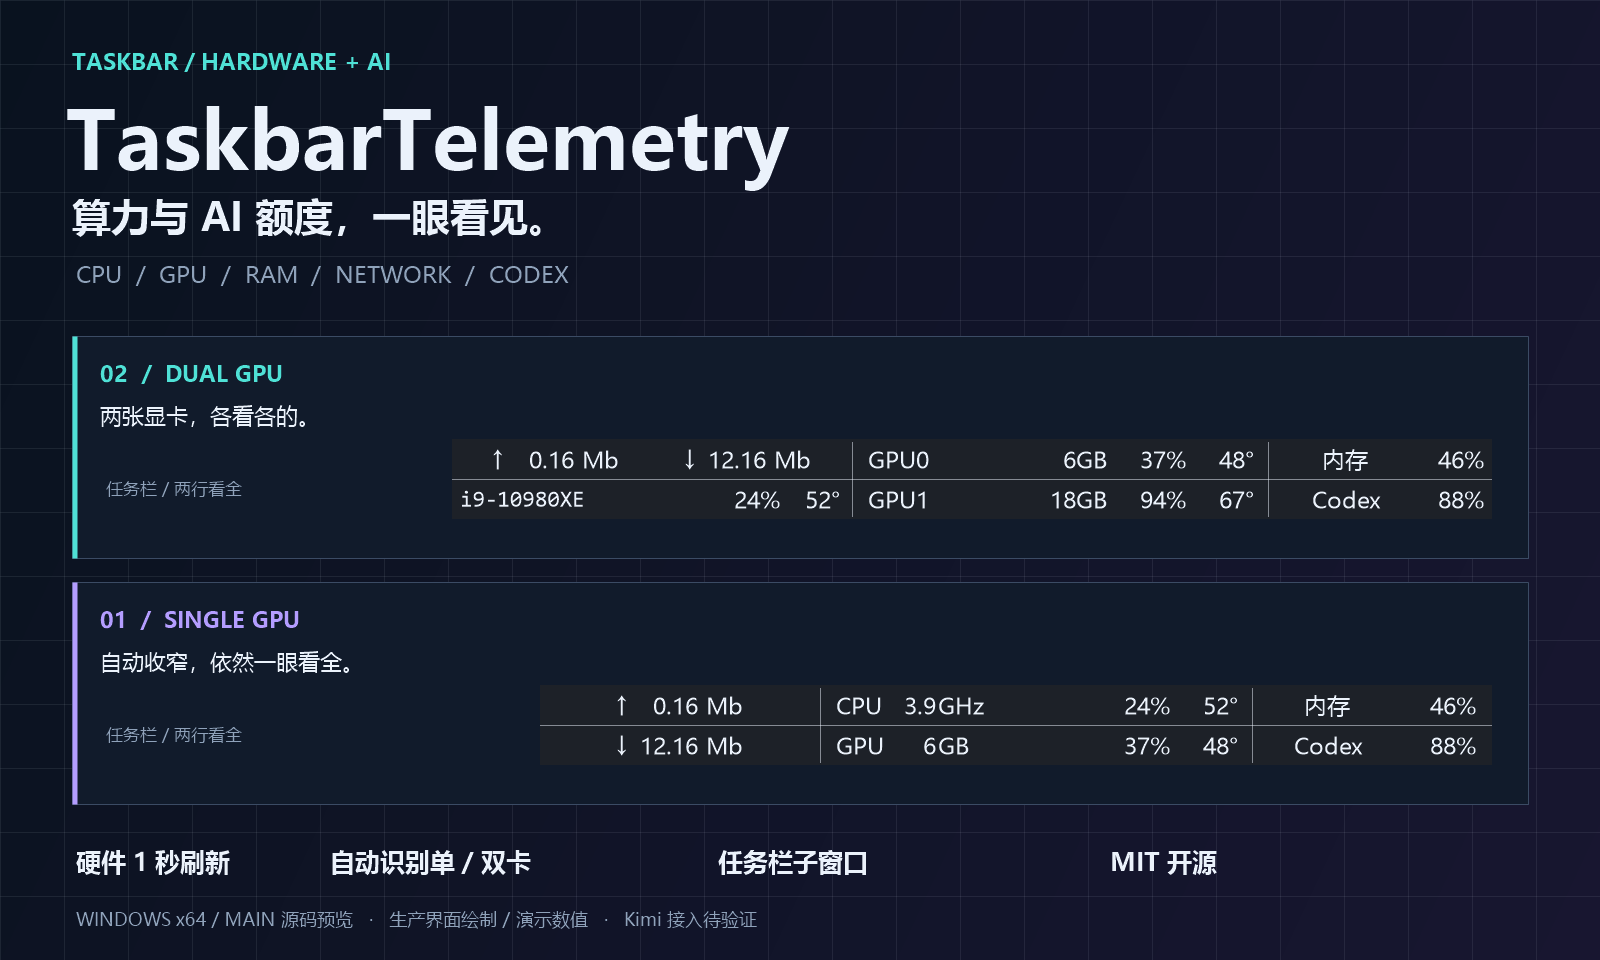
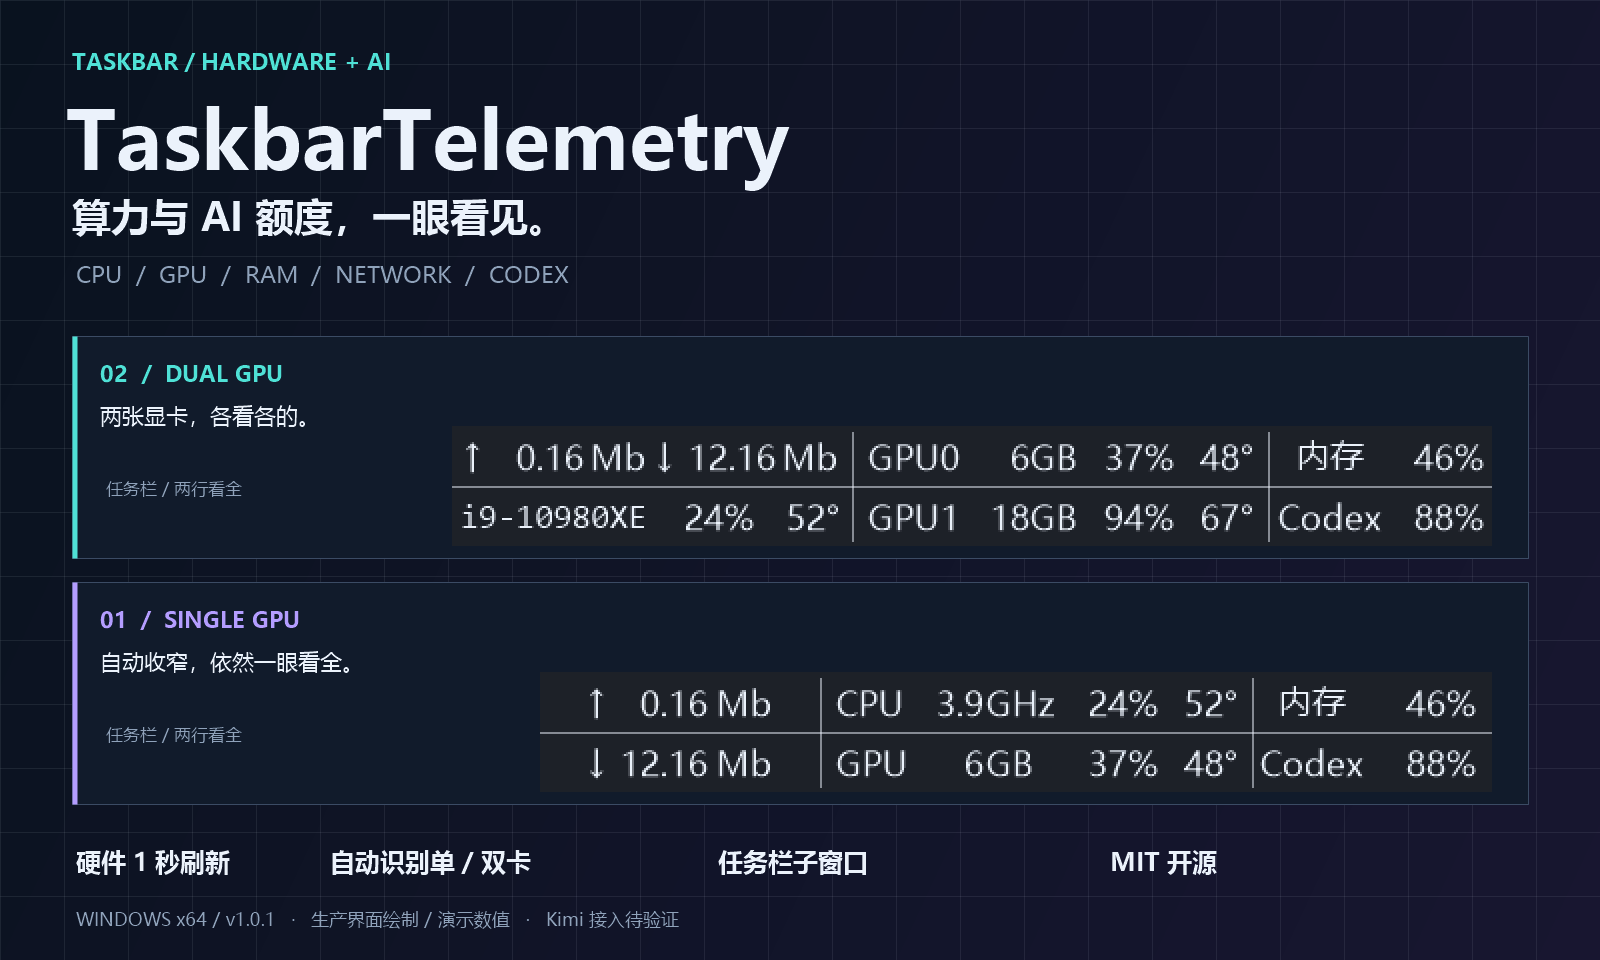
Release v1.0.1 with current compact screenshots and portable download

diff --git a/tools/ReadmeArtwork.cs b/tools/ReadmeArtwork.cs
@@ -21,7 +21,7 @@ namespace TaskbarTelemetry
             if (args.Length < 2 || args.Length > 4) return 2;
             // Optional physical-DPI strips support local spacing reviews. They
             // still only draw demonstration values, never run the diagnostic probe.
-            float dpi = args.Length >= 3 ? float.Parse(args[2], System.Globalization.CultureInfo.InvariantCulture) : 192;
+            float dpi = args.Length >= 3 ? float.Parse(args[2], System.Globalization.CultureInfo.InvariantCulture) : 144;
             bool stress = args.Length == 4 && args[3] == "--stress";
             string output = Path.GetFullPath(args[0]);
             Directory.CreateDirectory(output);
@@ -112,22 +112,22 @@ namespace TaskbarTelemetry
                 Label(g, "自动识别单 / 双卡", 330, 846, 25, Ink, true);
                 Label(g, "任务栏子窗口", 718, 846, 25, Ink, true);
                 Label(g, "MIT 开源", 1110, 846, 25, Ink, true);
-                Label(g, "WINDOWS x64 / MAIN 源码预览   ·   生产界面绘制 / 演示数值   ·   Kimi 接入待验证", 76, 908, 18, Muted, false);
+                Label(g, "WINDOWS x64 / v1.0.1   ·   生产界面绘制 / 演示数值   ·   Kimi 接入待验证", 76, 908, 18, Muted, false);
             }
             return bitmap;
         }
 
         private static Bitmap Overview(Bitmap dual, Bitmap single)
         {
-            Bitmap bitmap = new Bitmap(1200, 390, PixelFormat.Format24bppRgb);
+            Bitmap bitmap = new Bitmap(1200, 470, PixelFormat.Format24bppRgb);
             using (Graphics g = Graphics.FromImage(bitmap))
             {
                 Setup(g, bitmap.Size);
                 Label(g, "双 GPU / 520", 48, 23, 22, Cyan, true);
-                Place(g, dual, 72, 68);
-                Label(g, "单 GPU / 476", 48, 191, 22, Violet, true);
-                Place(g, single, 176, 236);
-                Label(g, "生产绘制代码 · 固定演示数值 · 2× 展示", 48, 350, 16, Muted, false);
+                Place(g, dual, 72, 68, 2);
+                Label(g, "单 GPU / 476", 48, 227, 22, Violet, true);
+                Place(g, single, 1112 - single.Width * 2, 276, 2);
+                Label(g, "v1.0.1 · 144 DPI 默认紧凑布局 · 固定演示数值 · 等比例 2× 展示", 48, 438, 16, Muted, false);
             }
             return bitmap;
         }
@@ -152,16 +152,21 @@ namespace TaskbarTelemetry
             }
             Label(g, tag, r.X + 28, r.Y + 22, 22, accent, true);
             Label(g, description, r.X + 28, r.Y + 66, 22, Ink, false);
-            int imageX = r.Right - 36 - strip.Width;
-            Place(g, strip, imageX, r.Y + 103);
+            int imageX = r.Right - 36 - strip.Width * 2;
+            Place(g, strip, imageX, r.Y + 90, 2);
             Label(g, "任务栏 / 两行看全", r.X + 34, r.Y + 142, 17, Muted, false);
         }
 
-        private static void Place(Graphics g, Bitmap bitmap, int x, int y)
+        private static void Place(Graphics g, Bitmap bitmap, int x, int y, int scale)
         {
-            // Explicit pixel units retain all pixels when the strip has 192-DPI metadata.
-            g.DrawImage(bitmap, new Rectangle(x, y, bitmap.Width, bitmap.Height),
+            // Enlarge the actual compact render uniformly, never stretch column
+            // widths independently of the font. Preserve pixels for documentation.
+            GraphicsState state = g.Save();
+            g.InterpolationMode = InterpolationMode.NearestNeighbor;
+            g.PixelOffsetMode = PixelOffsetMode.Half;
+            g.DrawImage(bitmap, new Rectangle(x, y, bitmap.Width * scale, bitmap.Height * scale),
                 0, 0, bitmap.Width, bitmap.Height, GraphicsUnit.Pixel);
+            g.Restore(state);
         }
 
         private static void Label(Graphics g, string text, float x, float y, float pixels, Color color, bool bold)

diff --git a/src/AssemblyInfo.cs b/src/AssemblyInfo.cs
@@ -5,6 +5,6 @@ using System.Reflection;
 [assembly: AssemblyCompany("TaskbarTelemetry Project")]
 [assembly: AssemblyProduct("TaskbarTelemetry")]
 [assembly: AssemblyCopyright("Copyright (c) 2026 TaskbarTelemetry contributors")]
-[assembly: AssemblyVersion("1.0.0.0")]
-[assembly: AssemblyFileVersion("1.0.0.0")]
-[assembly: AssemblyInformationalVersion("1.0.0")]
+[assembly: AssemblyVersion("1.0.1.0")]
+[assembly: AssemblyFileVersion("1.0.1.0")]
+[assembly: AssemblyInformationalVersion("1.0.1")]

diff --git a/docs/releases/v1.0.1.md b/docs/releases/v1.0.1.md
@@ -1,0 +1,48 @@
+# v1.0.1 · 紧凑布局、Mb 网速与 Codex 刷新修复
+
+**展示图与下载包同步更新。无需编译，下载完整运行包即可使用。**
+
+👉 [下载 TaskbarTelemetry-v1.0.1-windows-x64.zip](https://github.com/hanxiangmin/TaskbarTelemetry/releases/download/v1.0.1/TaskbarTelemetry-v1.0.1-windows-x64.zip)
+
+下载后右键 ZIP → **全部解压** → 打开 `TaskbarTelemetry` 文件夹 → 双击 **TaskbarTelemetry.exe** → 由你确认 Windows 管理员提示。请保留整个文件夹，尤其是 `lib`、配置和许可文件；不要下载 `Source code` 代替运行包。
+
+## 这次更新
+
+- **网速与测速网页使用相同单位**：`Mb / Gb / Tb` 分别表示 Mbps / Gbps / Tbps，按十进制换算；硬件与网速默认每秒刷新。
+- **去掉多余的前导零**：显示 `0.16 Mb`、`12.16 Mb`；数字、箭头和单位使用固定位置，数值变大不推挤其他列。
+- **更紧凑的单 / 双卡排版**：自动识别 1 / 2 张 NVIDIA。双卡 520、单卡 476 物理像素；默认不随 DPI 拉宽，中间列两端保留分隔线留白。单卡 CPU / GPU 上下对齐，GHz / GB 的 G 对齐。
+- **Codex 额度主动刷新**：默认每 60 秒查询、每 1 秒扫描本地额度事件；改进原生 CLI 定位，减少管理员启动时只能读到旧日志的情况。保留真实更新时间与失败原因，旧数据不会无限续期。
+- **更新文档与展示图**：单卡、双卡、深浅主题均与当前绘制代码同步，另增加离线网速与排版检查。
+
+![v1.0.1 单卡与双卡布局](https://raw.githubusercontent.com/hanxiangmin/TaskbarTelemetry/v1.0.1/docs/screenshots/layout-overview.png)
+
+<details>
+<summary>浅色主题</summary>
+
+![双 GPU 浅色布局](https://raw.githubusercontent.com/hanxiangmin/TaskbarTelemetry/v1.0.1/docs/screenshots/dual-light.png)
+
+![单 GPU 浅色布局](https://raw.githubusercontent.com/hanxiangmin/TaskbarTelemetry/v1.0.1/docs/screenshots/single-light.png)
+
+</details>
+
+以上是生产绘制代码生成的固定演示数据，不是实时桌面截图，也不代表所有设备都有可用温度传感器。
+
+## 从旧版升级
+
+先在旧版小工具上右键“退出”，再解压新包。**建议先使用 v1.0.1 默认配置**：直接复制旧 INI 可能保留旧版宽度和 DPI 设置。需要保留偏好时，备份旧配置后逐项合并。v1.0.0 保留在发布历史中。
+
+## 下载内容与验证
+
+- `windows-x64.zip`：EXE、默认配置、5 个经官方归档哈希校验的运行库、使用说明、隐私 / 许可文件及展示图。不含个人账户、密钥、通知状态、会话或内核驱动。
+- `source.zip`：同一提交的源码，可按 MIT License 进行二次开发；再分发须保留许可及第三方声明。
+- `SHA256SUMS.txt` 与 `RELEASE-MANIFEST.json`：压缩包校验值、源码提交、依赖来源及包内逐文件哈希。
+
+Windows CI 执行应用 / 测试源码编译、Store 条件编译、独立网速 / 排版检查和文档绘制。此前相同渲染代码已通过 83,883 个离线断言；发布提交的实际结果见 [Actions](https://github.com/hanxiangmin/TaskbarTelemetry/actions)。离线绘制检查不等于全部桌面与硬件回归完成。
+
+## 使用条件与限制
+
+- Windows 10 / 11 x64、.NET Framework 4.8；无需 Visual Studio 或 .NET SDK。
+- Codex 使用你自己的登录环境。**Kimi 真实额度尚未接通**，AMD / Intel GPU 监控尚未实现。
+- CPU 温度 / 频率依赖硬件、权限和可选官方传感器后端；缺失时显示 `--`，不影响其他指标。
+- **EXE 尚未代码签名**，可能被 Windows 安全策略阻止；不要关闭 Defender、Smart App Control 或驱动签名保护来绕过。
+- 托盘箭头、截图遮罩、Explorer 重启、鼠标命中及全部 Windows / DPI 组合仍有待回归事项；不宣称全套诊断通过。详见 [验证记录](https://github.com/hanxiangmin/TaskbarTelemetry/blob/v1.0.1/docs/VALIDATION.md)。

diff --git a/README.md b/README.md
@@ -16,13 +16,13 @@ An open-source **Windows taskbar system monitor** for CPU usage, NVIDIA GPU util
 [![MIT](https://img.shields.io/badge/License-MIT-22C55E?style=flat-square)](LICENSE)
 [![Release](https://img.shields.io/github/v/release/hanxiangmin/TaskbarTelemetry?style=flat-square)](https://github.com/hanxiangmin/TaskbarTelemetry/releases/latest)
 
-### [⬇ 下载 Windows x64 便携版 · 解压即用](https://github.com/hanxiangmin/TaskbarTelemetry/releases/latest/download/TaskbarTelemetry-v1.0.0-windows-x64.zip)
+### [⬇ 下载 v1.0.1 Windows x64 便携版 · 解压即用](https://github.com/hanxiangmin/TaskbarTelemetry/releases/download/v1.0.1/TaskbarTelemetry-v1.0.1-windows-x64.zip)
 
 [快速开始](#快速开始) · [界面预览](#两种布局自动适配) · [配置手册](docs/GUIDE.md) · [参与开发](CONTRIBUTING.md) · [反馈问题](https://github.com/hanxiangmin/TaskbarTelemetry/issues)
 
 </div>
 
-> **源码与下载包的区别：** `main` 已包含紧凑布局、Codex 每分钟主动刷新，以及 `Mb` 网速单位 / 去掉前导零的更新。下方图片展示当前源码；Release 下载包仍为 v1.0.0，尚未包含这些更新。
+> **v1.0.1：展示图与下载包已同步。** 本版包含紧凑布局、Codex 每分钟主动刷新，以及 `Mb` 网速单位 / 去掉前导零的更新。[查看更新说明](docs/releases/v1.0.1.md)。旧版保留在发布历史中。
 
 ## 少切一次窗口，多看一眼状态
 
@@ -68,13 +68,13 @@ An open-source **Windows taskbar system monitor** for CPU usage, NVIDIA GPU util
 
 ### 下载后直接运行
 
-1. 下载 [**TaskbarTelemetry-v1.0.0-windows-x64.zip**](https://github.com/hanxiangmin/TaskbarTelemetry/releases/download/v1.0.0/TaskbarTelemetry-v1.0.0-windows-x64.zip)，不要选 `Source code`。
+1. 下载 [**TaskbarTelemetry-v1.0.1-windows-x64.zip**](https://github.com/hanxiangmin/TaskbarTelemetry/releases/download/v1.0.1/TaskbarTelemetry-v1.0.1-windows-x64.zip)，不要选 `Source code`。
 2. 右键 ZIP → **全部解压**，保留整个 `TaskbarTelemetry` 文件夹。
 3. 双击 **TaskbarTelemetry.exe**，由你确认 Windows 管理员提示。小工具会出现在任务栏系统托盘左侧，自动识别单卡 / 双卡。
 
 **无需 Visual Studio、.NET SDK 或自己编译。** 运行库已随包附带；系统需要 Windows 10 / 11 x64 和 .NET Framework 4.8。Codex 使用你自己的已登录环境，CPU 温度 / 频率可能需要额外的官方传感器后端。包内 `START-HERE.txt` 有完整操作说明。
 
-这是首个公开可下载版本，兼容性仍在完善。已知限制与未完成的桌面回归见 [VALIDATION](docs/VALIDATION.md)；下载包不代表所有环境均已验收。完整发布说明与校验文件见 [Releases](https://github.com/hanxiangmin/TaskbarTelemetry/releases/latest)。
+从 v1.0.0 升级时请先退出旧实例，并使用新包的默认配置体验紧凑布局；直接复制旧 INI 可能保留旧版的宽度和 DPI 设置。需要保留偏好时请逐项合并。兼容性仍在完善，已知限制与未完成的桌面回归见 [VALIDATION](docs/VALIDATION.md)；下载包不代表所有环境均已验收。完整发布说明与校验文件见 [Releases](https://github.com/hanxiangmin/TaskbarTelemetry/releases/latest)。
 
 ### 从源码构建
 

diff --git a/docs/VALIDATION.md b/docs/VALIDATION.md
@@ -1,11 +1,19 @@
-# 验证状态：当前源码与 v1.0.0 下载包
+# 验证状态：v1.0.1 与历史记录
 
-更新：2026-09-12。当前 `main` 包含紧凑布局、Codex 主动刷新、十进制 Mb 网速和取消前导零的更新；公开下载包仍为 2026-09-08 发布的 v1.0.0。本次只更新源码、文档、演示图和 CI，不替换 Release。未完成的运行回归仍保留；源码编译或演示绘制通过不等于全部桌面兼容性已通过。
+更新：2026-09-12。v1.0.1 将紧凑布局、Codex 主动刷新、十进制 Mb 网速和取消前导零的更新纳入下载包，文档展示图同步更新。v1.0.0 保留为历史版本。未完成的运行回归仍保留；源码编译或演示绘制通过不等于全部桌面兼容性已通过。
+
+## v1.0.1 发布验证范围
+
+- 发布输入为干净 Git 提交：运行包从该提交导出的源码独立构建，使用仓库默认 INI，不复制维护者的运行目录或个人配置。
+- 发布前核对应用版本、x64 PE、管理员清单、官方依赖归档与 5 个 DLL 哈希、许可、个人数据扫描，以及 ZIP 解压后逐文件哈希。包内 `BUILD-INFO.json`、`RELEASE-MANIFEST.json` 与 `SHA256SUMS.txt` 记录构建来源和验证边界。
+- 网速 / 排版独立检查已在 GitHub Windows PowerShell 5.1 上通过 83,883 个断言（提交 `08e15fe`），包括零 / 单 / 双 GPU、多 DPI、宽度稳定性及单位进位。发布提交再次执行同一检查，结果见对应 Actions 记录。
+- 展示图包含单 / 双卡和深浅主题，由生产绘制代码生成固定演示值；不是实时桌面截图。
+- 不执行此前被 Windows 阻止的全量诊断探针，不关闭安全保护。EXE 未签名；真实桌面全套回归、其他实体单卡机器及 Kimi 账户额度仍未验收。
 
 ## 当前源码同步检查
 
 - 本地生产程序集的独立网速 / 排版检查在允许执行的环境中通过 83,883 个断言；随后主程序已正常启动。详见下方 2026-09-12 记录。
-- 六张 README 演示图已按当前生产绘制代码重新生成，显示 `0.16 Mb` / `12.16 Mb`、520 / 476 布局；图片不是 v1.0.0 下载包界面，也不包含真实账户或桌面数据。
+- 六张 README 演示图按 v1.0.1 生产绘制代码生成，显示 `0.16 Mb` / `12.16 Mb`、520 / 476 布局；不包含真实账户或桌面数据。
 - CI 增加独立离线网速 / 排版检查，不启动桌面窗口、采集器、账户查询或通知。完整诊断探针仍不在 CI 中执行；各次构建结果以 GitHub Actions 记录为准。
 - 为验证 Windows PowerShell 5.1 兼容性而单独启动的本地脚本检查，被该宿主的脚本执行策略阻止，未标为通过，也未调整执行策略。C# 源码编译检查与之前已完成的独立绘制检查分别记录，不混为一项。
 - 首次 GitHub 检查已完成应用 / 测试源码及 Store 条件编译，但独立绘制脚本在 Windows PowerShell 5.1 因不支持 `[ulong]` 类型缩写而中止。测试数据现改用显式 `[System.UInt64]`；重新检查的结果以当前提交的 Actions 记录为准，不改动生产程序或放宽断言。

diff --git a/docs/COMPATIBILITY.md b/docs/COMPATIBILITY.md
@@ -6,7 +6,7 @@
 - 本地 EXE 使用 `requireAdministrator`，由 Windows 显示管理员确认；不自动批准 UAC。Store 构建维持 `asInvoker`，不带 CPU 温度后端。
 - 仅 NVIDIA NVML 硬件计入布局。没有驱动接口或 NVIDIA 设备时使用单卡框架，GPU 显示不可用。
 - 有效枚举结果变为零允许回到单卡；临时枚举/句柄失败保留上次真实设备身份，不用旧温度冒充当前值。
-- 当前源码默认双卡 520 / 单卡 476 的物理像素宽度，`scaleWidthWithDpi=false`。双卡由 528 收窄 8 像素、中列增加分隔线留白；本机已使用此布局，但尚未包含于 v1.0.0 下载包。v1.0.0 的默认 `true` 会在 150% 下将双卡放大为 792，造成大间隙；已有 v1.0.0 配置请将该项改为 `false` 后重启，恢复该版的 528 / 476 宽度。显式设置 `true` 仍可按 96-DPI 基准放大；高 DPI 字体放不下时可自行调整宽度，不能保证固定物理宽度适用于所有 DPI。
+- v1.0.1 默认双卡 520 / 单卡 476 的物理像素宽度，`scaleWidthWithDpi=false`。双卡由 528 收窄 8 像素、中列增加分隔线留白；本机已使用此布局。v1.0.0 的默认 `true` 会在 150% 下将双卡放大为 792，造成大间隙；仍使用旧版时可将该项改为 `false` 后重启，恢复旧版的 528 / 476 宽度。升级到 v1.0.1 建议使用新包默认配置，再逐项合并个人偏好。显式设置 `true` 仍可按 96-DPI 基准放大；高 DPI 字体放不下时可自行调整宽度，不能保证固定物理宽度适用于所有 DPI。
 - 默认 8.5 pt；CPU 名称为 Consolas，其他文字沿用配置字体。大字号、极窄手动宽度或任务栏可用空间不足时可能裁切；应配套增加 `ui.width`，不会随当前数值自动缩放字体。
 
 ## CPU 简写

diff --git a/docs/screenshots/README.md b/docs/screenshots/README.md
@@ -7,8 +7,8 @@
 - `single-dark.png`、`dual-dark.png`：深色界面。
 - `single-light.png`、`dual-light.png`：浅色界面。
 
-所有硬件数字与 Codex 额度均为固定演示值；CPU 标签是演示配置，不从维护者个人硬件导出。未接入 Kimi 数值。图片没有真实桌面、用户账号、密钥或通知状态。条形界面为 192 DPI / 2× 绘制，保存为 PNG；海报只增加背景和说明文字。
+所有硬件数字与 Codex 额度均为固定演示值；CPU 标签是演示配置，不从维护者个人硬件导出。未接入 Kimi 数值。图片没有真实桌面、用户账号、密钥或通知状态。条形界面按 144 DPI、8.5 pt 和 `scaleWidthWithDpi=false` 的默认紧凑设置绘制，宽度为 520 / 476 像素；海报和对照图将整个条形界面等比例放大 2×，不单独拉宽列间距。
 
-2026-09-12 更新：图片展示当前源码的 520 / 476 布局及 `0.16 Mb` / `12.16 Mb` 网速格式，不代表尚未更新的 v1.0.0 下载包。
+2026-09-12 更新：图片与 v1.0.1 下载包使用相同的生产绘制代码，展示 520 / 476 布局及 `0.16 Mb` / `12.16 Mb` 网速格式。v1.0.0 的历史展示图保留在该版本标签中。
 
 在项目根目录执行 `./generate-readme-artwork.ps1` 可重新生成。该工具不启动采集、联网或发送通知，也不执行诊断探针或测试断言。生成图片成功不代表真实 Windows 桌面兼容性测试通过。
